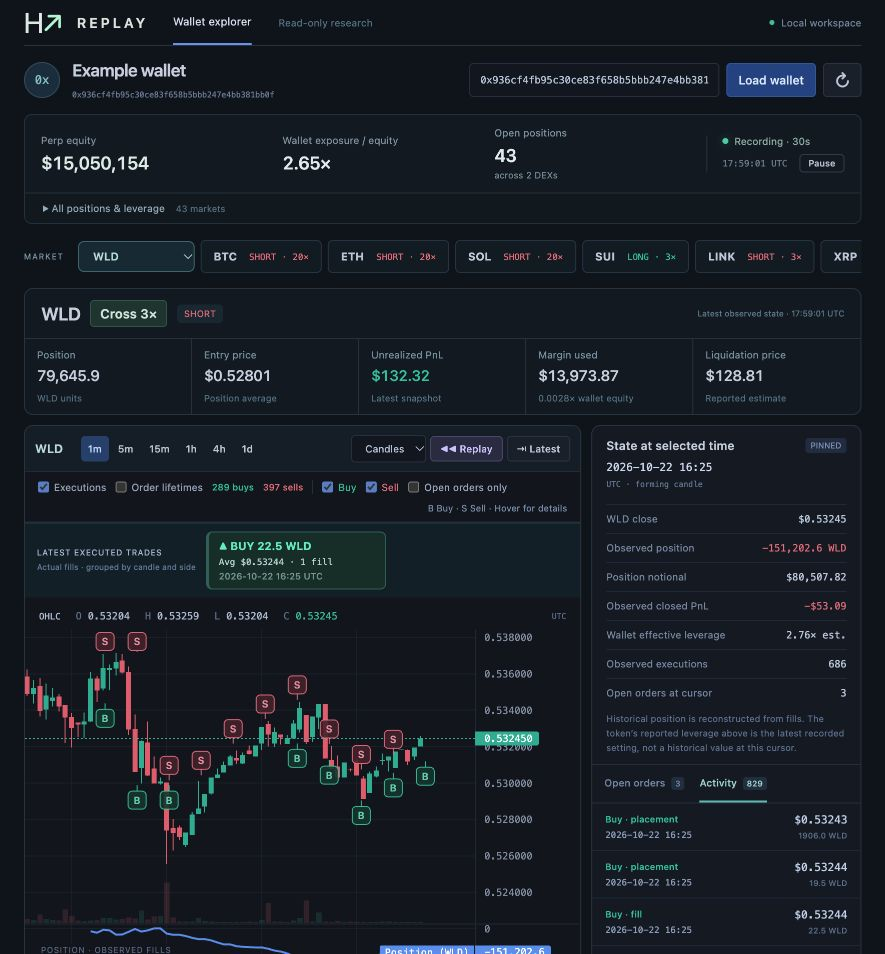
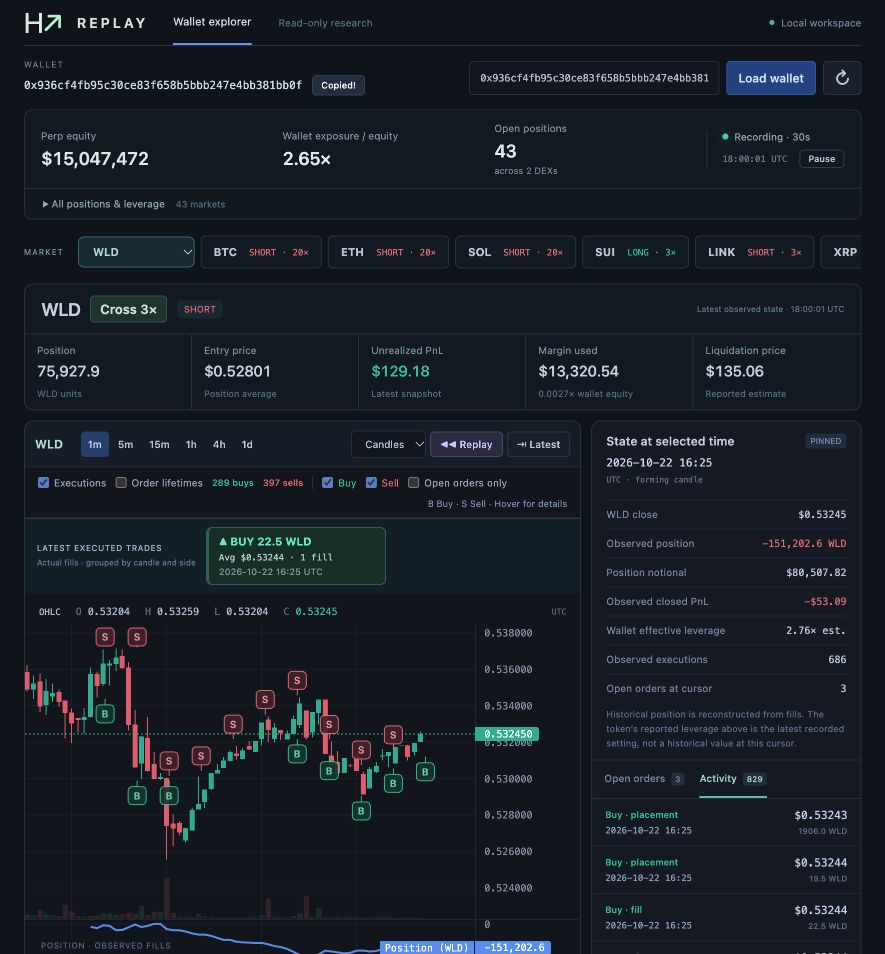
Identify wallets by address with copy control

diff --git a/src/style.css b/src/style.css
@@ -13,3 +13,4 @@
 .wallet-summary{border:1px solid #283846;background:#111b24;border-radius:8px;margin:0 0 16px;overflow:hidden}.wallet-summary-bar{display:grid;grid-template-columns:1.15fr 1fr 1fr auto;align-items:center;padding:14px 18px;gap:22px}.wallet-summary-bar>div>span{display:block;color:#8b9dac;font-size:10px}.wallet-summary-bar strong{display:block;font-size:20px;font-weight:550;letter-spacing:-.4px;margin-top:6px;font-variant-numeric:tabular-nums;color:#e3edf2}.wallet-summary-bar .wallet-total strong{color:#e1eee9}.wallet-summary-bar strong small{display:inline-block;font-size:10px;font-weight:400;letter-spacing:0;color:#7f94a3;margin-left:8px}.wallet-recording{border-left:1px solid #293a47;padding-left:20px}.wallet-recording>div{display:flex;align-items:center;justify-content:space-between;gap:12px;margin-top:7px}.wallet-recording small{font:9px ui-monospace,monospace;color:#71899a}.wallet-recording button{background:transparent;border-color:#344754;font-size:9px;padding:3px 8px}.wallet-recording .recording-state{display:flex;color:#9abbb3;font-size:10px;gap:6px}.positions-disclosure{border-top:1px solid #263744;background:#0f1922}.positions-disclosure summary{padding:9px 18px;cursor:pointer;color:#9fb4c2;font-size:10px}.positions-disclosure summary span{color:#627e91;margin-left:8px;font-size:9px}.positions-scroll{max-height:300px;overflow:auto;scrollbar-width:thin}.positions-scroll table{border-collapse:collapse;width:100%;font-size:11px;text-align:right;white-space:nowrap}.positions-scroll th{position:sticky;top:0;background:#182630;color:#94aab8;font-size:9px;font-weight:500;padding:10px 16px;border-bottom:1px solid #324452}.positions-scroll td{padding:8px 16px;border-bottom:1px solid #223340;font-variant-numeric:tabular-nums}.positions-scroll th:first-child,.positions-scroll td:first-child{text-align:left}.positions-scroll td button{padding:3px 0;border:0;background:none;color:#d9e5eb;font-size:11px;font-weight:600}.positions-scroll td b{font-weight:600;color:#dfebe9}.positions-scroll td small{color:#8a9eae;margin-left:5px}.positions-scroll tr:hover td{background:#192c36}.positions-disclosure p{padding:0 18px 8px;color:#7a94a6;font-size:10px;line-height:1.6}.summary-warning{margin:0;padding:8px 18px;color:#dbb27f;font-size:10px}.market-shortcuts{margin-bottom:10px;padding-bottom:5px;gap:6px}.market-shortcuts>span{min-width:auto;margin-right:8px;letter-spacing:1px}.market-shortcuts button{border-radius:5px;padding:9px 12px;gap:12px;flex-shrink:0;background:#111c26}.market-shortcuts button.active{background:#193337;border-color:#4b8d89}.market-shortcuts small{font-size:9px}.market-shortcuts b{font-size:11px}.wallet-market-picker{flex-shrink:0}.selected-market-summary{margin-bottom:10px;background:#111b24}.market-summary-heading{padding:11px 16px}.market-summary-heading>div{gap:10px}.token-leverage{font-size:13px;color:#d8e9df;font-weight:600;background:#213a36;border:1px solid #365e52;border-radius:4px;padding:5px 9px;font-variant-numeric:tabular-nums}.market-summary-values{grid-template-columns:repeat(5,minmax(0,1fr))}.market-summary-values .metric{padding:11px 16px;border-bottom:0!important}.market-summary-values .metric strong{font-size:17px;margin:6px 0}.market-summary-values .metric small{font-size:9px}.market-summary-values .metric:nth-child(3){border-right:1px solid #263946}.market-summary-values .metric:last-child{border-right:0}.trade-focus{padding:8px 12px;gap:10px;align-items:center}.trade-card{padding:7px 10px;min-width:180px;gap:4px}.trade-card b{font-size:11px}.trade-card span{font-size:9px}.trade-focus-title{font-size:8px;gap:4px;min-width:145px}.trade-focus-title small{font-size:8px;max-width:160px}.chart-column,.inspector{border-color:#2a3b49}.walletbar{padding:14px 0}.terminal{background:#0d141c}.chart-host{height:clamp(360px,calc(100dvh - 420px),820px)}
 @media(max-width:1050px){.wallet-summary-bar{gap:16px;padding:12px 16px}.wallet-summary-bar strong{font-size:18px}.wallet-summary-bar strong small{display:block;margin:4px 0 0;font-size:9px}.wallet-recording{padding-left:15px}.market-summary-values .metric{padding:10px 12px}.market-summary-values .metric strong{font-size:15px}.market-kind{display:none}.market-summary-heading>span{font-size:8px}.chart-host{height:420px}}
 @media(max-width:650px){.wallet-summary-bar{grid-template-columns:1fr 1fr;gap:16px}.wallet-recording{border-left:0;padding:0}.market-summary-values{grid-template-columns:repeat(2,minmax(0,1fr))}.market-summary-values .metric{border-bottom:1px solid #263946!important}.market-summary-values .metric:last-child{grid-column:1 / -1;border-bottom:0!important}.market-summary-heading{align-items:flex-start;gap:8px}.market-summary-heading>div{flex-wrap:wrap}.market-summary-heading>span{max-width:95px;line-height:1.5;text-align:right}.token-leverage{font-size:11px}.market-shortcuts>span{display:none}.wallet-market-picker{min-width:85px}.chart-host{height:420px}.positions-scroll td,.positions-scroll th{padding:8px 12px}}
+.wallet-identity{min-width:0}.wallet-identity>div{min-width:0}.wallet-identity-label{display:block;font-size:8px;letter-spacing:1.2px;color:#758e9f;margin-bottom:6px}.wallet-address-row{display:flex;align-items:center;gap:10px;min-width:0}.wallet-title.wallet-identity h1{font:11px ui-monospace,SFMono-Regular,Consolas,monospace;letter-spacing:0;margin:0;color:#d5e4eb;overflow-wrap:anywhere;user-select:all}.copy-address{font-size:9px;padding:4px 8px;background:transparent;border-color:#344b58;flex-shrink:0}.copy-feedback{display:block;font-size:9px;color:#dcb080}.copy-feedback:empty{display:none}@media(max-width:1100px){.walletbar{flex-wrap:wrap}.walletbar form{margin-left:auto}}@media(max-width:650px){.wallet-title.wallet-identity h1{font-size:10px}.wallet-address-row{gap:7px}.wallet-identity{width:100%}}

diff --git a/src/main.tsx b/src/main.tsx
@@ -18,7 +18,10 @@ function App(){
   const [leverageData,setLeverageData]=useState<LeverageResponse|null>(null);
   const [leverageError,setLeverageError]=useState('');
   const [wallet,setWallet]=useState(EXAMPLE_WALLET);
+  const [copyStatus,setCopyStatus]=useState('');
   const [snapshot,setSnapshot]=useState<Snapshot|null>(null);
+  useEffect(()=>{setCopyStatus('');},[snapshot?.wallet]);
+  async function copyAddress(){if(!snapshot)return;try{await navigator.clipboard.writeText(snapshot.wallet);setCopyStatus('Copied');}catch{setCopyStatus('Copy failed — select the address to copy');}}
   const [coin,setCoin]=useState('BTC');
   const [interval,setIntervalValue]=useState<Interval>('4h');
   const [candles,setCandles]=useState<Candle[]>([]);
@@ -126,7 +129,7 @@ function App(){
   function seek(event:ReplayEvent){const at=candleIndexAt(candles,event.time/1000);if(at>=0){setCursor(at);setPlaying(false);setSelectedEvent(event);}}
   return <main className="terminal">
     <header className="topbar"><a href="/" className="brand"><span className="original-mark">H<span>↗</span></span><b className="original-wordmark">REPLAY</b></a><div className="top-nav"><span className="nav-active">Wallet explorer</span><span className="nav-context">Read-only research</span></div><span className="local-badge"><i/> Local workspace</span></header>
-    <section className="walletbar"><div className="wallet-title"><span className="avatar">0x</span><div><h1>{snapshot?.wallet===EXAMPLE_WALLET?'Example wallet':'Wallet explorer'}</h1><span className="address-label">{snapshot?.wallet??'Load a wallet to explore its trading history'}</span></div></div><form onSubmit={e=>{e.preventDefault();void loadWallet(false);}}><input aria-label="Wallet address" value={wallet} onChange={e=>setWallet(e.target.value)} spellCheck={false}/><button disabled={busy||!/^0x[0-9a-fA-F]{40}$/.test(wallet)}>{busy?'Loading…':'Load wallet'}</button><button type="button" className="button-icon" title="Fetch latest wallet history" aria-label="Sync wallet" disabled={busy||!snapshot} onClick={()=>void loadWallet(true,snapshot!.wallet)}>↻</button></form></section>
+    <section className="walletbar"><div className="wallet-title wallet-identity"><div><span className="wallet-identity-label">WALLET</span><div className="wallet-address-row"><h1>{snapshot?.wallet??'Load a wallet'}</h1><button type="button" className="copy-address" aria-label="Copy wallet address" disabled={!snapshot} onClick={()=>void copyAddress()}>{copyStatus==='Copied'?'Copied!':'Copy'}</button></div><span className="copy-feedback" role="status">{copyStatus!=='Copied'?copyStatus:''}</span></div></div><form onSubmit={e=>{e.preventDefault();void loadWallet(false);}}><input aria-label="Wallet address" value={wallet} onChange={e=>setWallet(e.target.value)} spellCheck={false}/><button disabled={busy||!/^0x[0-9a-fA-F]{40}$/.test(wallet)}>{busy?'Loading…':'Load wallet'}</button><button type="button" className="button-icon" title="Fetch latest wallet history" aria-label="Sync wallet" disabled={busy||!snapshot} onClick={()=>void loadWallet(true,snapshot!.wallet)}>↻</button></form></section>
     {error&&<div className="error-banner" role="alert">{error}</div>}
     {leverageError&&<div className="error-banner" role="alert">{leverageError}</div>}
     <WalletLeverage data={leverageData} onRecording={()=>void toggleRecording()} onSelect={selectMarket}/>
